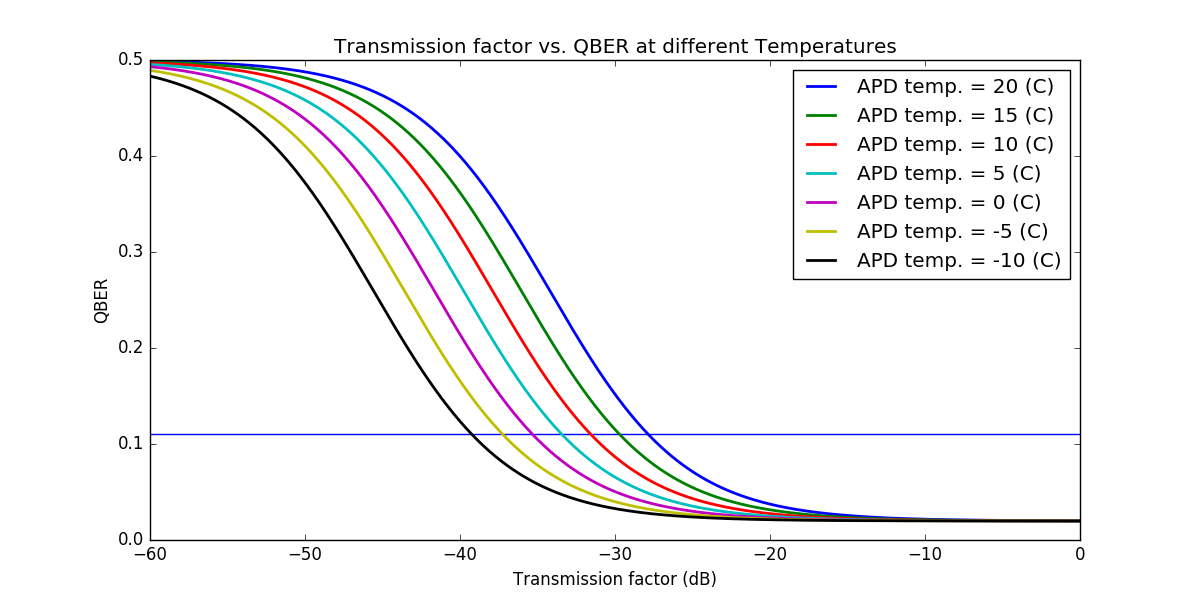
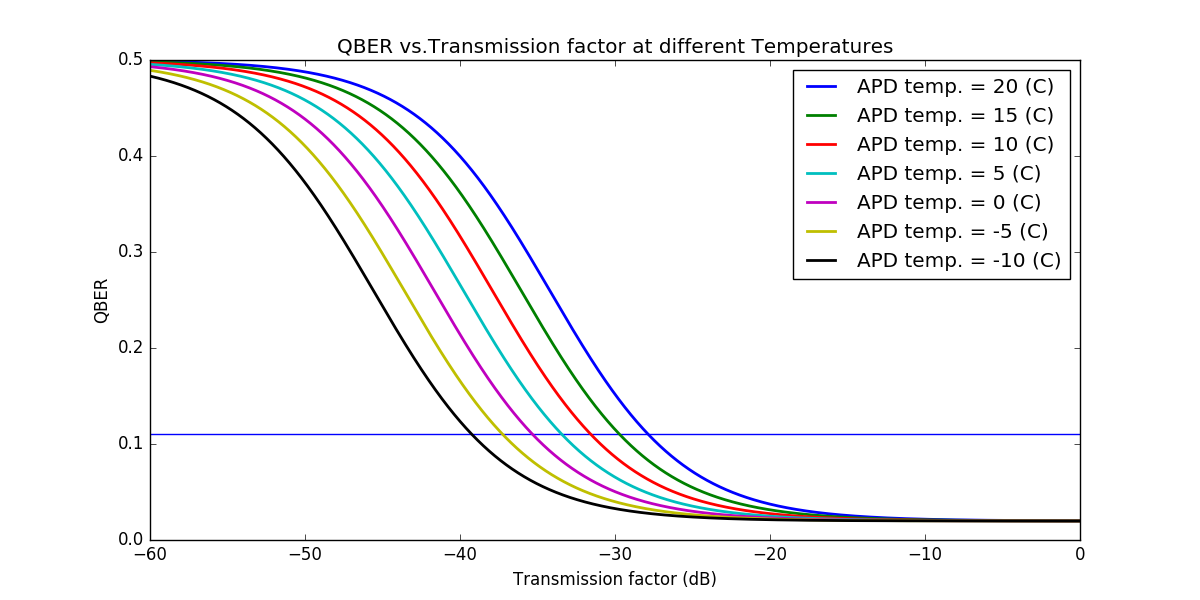
switched to y vs. x plot labelling

Changed region(s): [[0.2775, 0.06, 0.74, 0.09]]

diff --git a/s2qkd-sim.py b/s2qkd-sim.py
@@ -352,7 +352,7 @@ for t in reversed(tmptmp):
 
 plt.xlabel("Transmission factor (dB)")
 plt.ylabel("QBER")
-plt.title("Transmission factor vs. QBER at different Temperatures")
+plt.title("QBER vs.Transmission factor at different Temperatures")
 
 # # the main figure object
 # fig = plt.figure(figsize=(12, 10))
